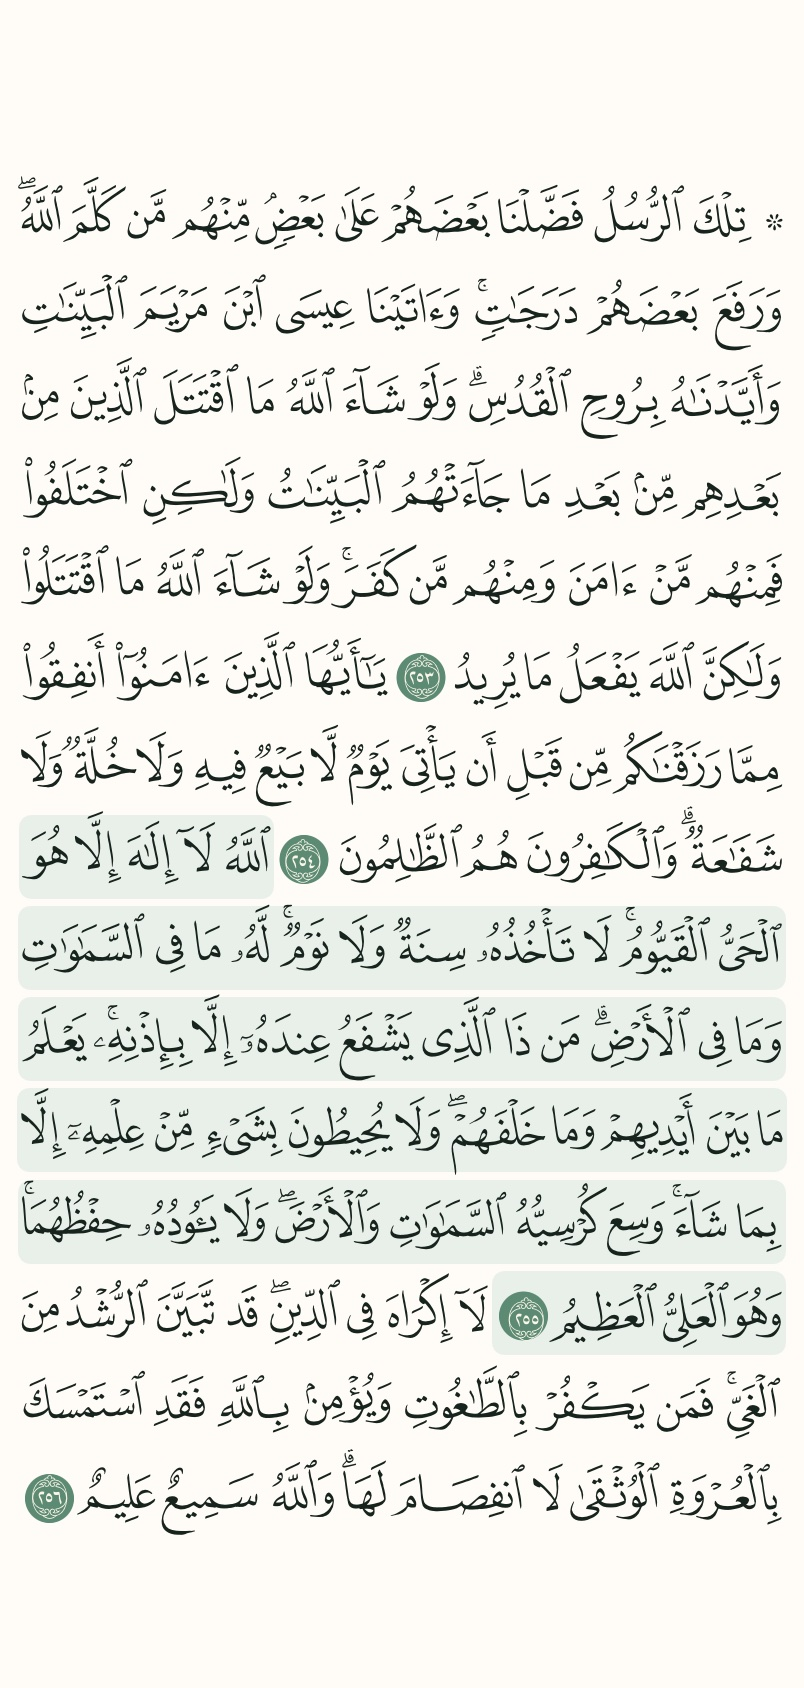
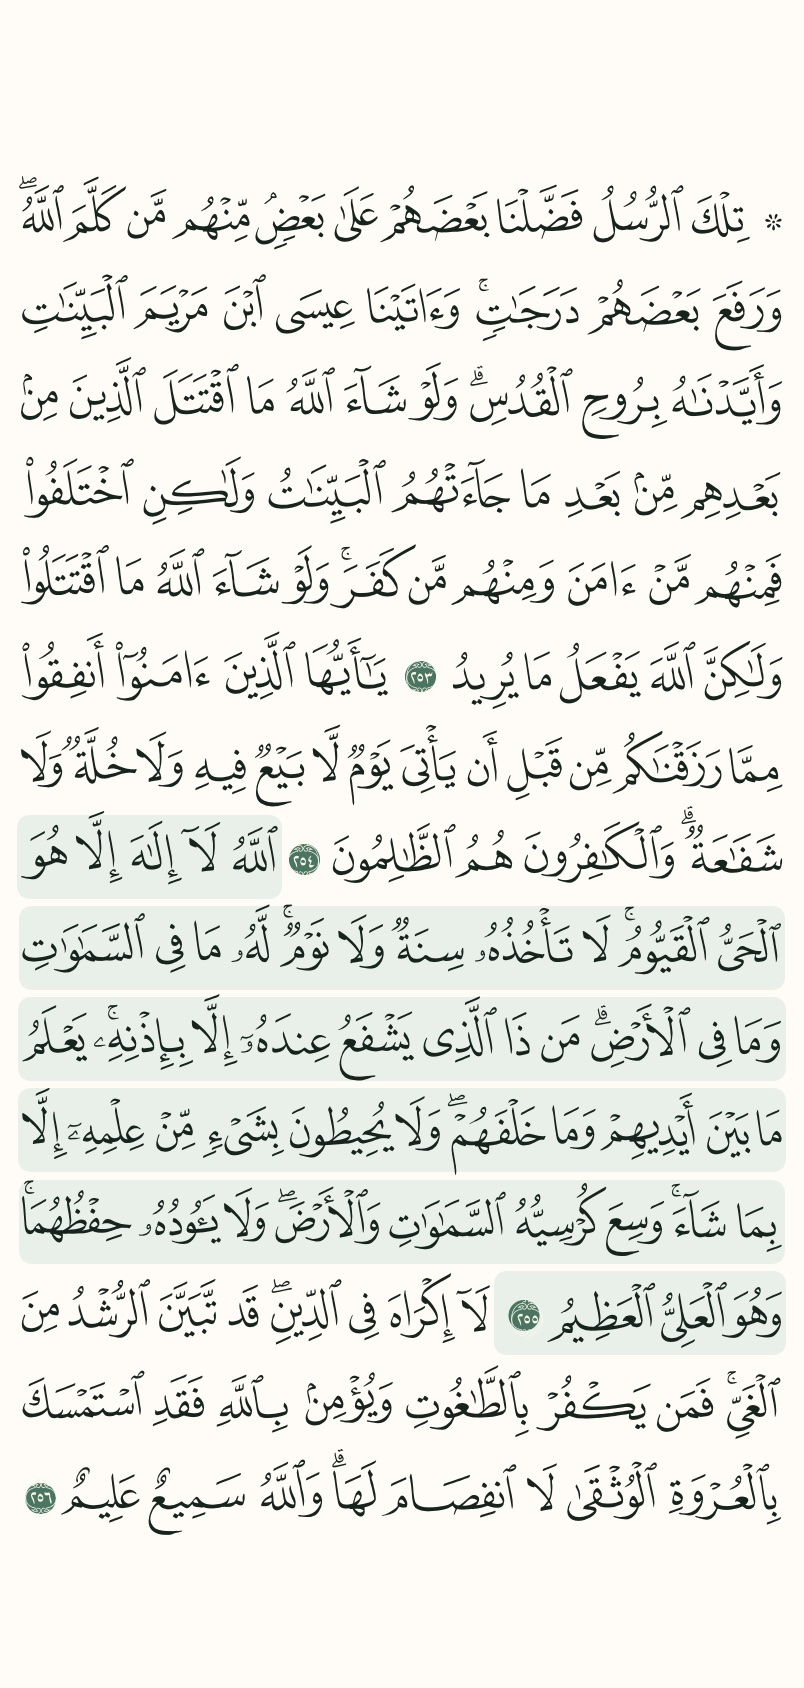
إعادة لقطات تحديد الآيات (#3408) من بناء HEAD مع PROVENANCE + هاش مجلد في الحارس (#3420)

diff --git a/docs/native/qa/mushaf/selection/selection-table.md b/docs/native/qa/mushaf/selection/selection-table.md
@@ -1,26 +1,26 @@
 | الحالة | الصفحة | الآية | الوضع | العرض | تظليل px | فجوات | ورق% |
 |---|---|---|---|---|---|---|---|
-| short | 1 | 1:2 | فاتح | 402 | 50340 | 0 | 86 |
-| short | 1 | 1:2 | داكن | 402 | 52139 | 0 | 86 |
-| short | 1 | 1:2 | فاتح | 834 | 212605 | 3 | 87 |
-| short | 1 | 1:2 | داكن | 834 | 216883 | 0 | 87 |
-| multi | 42 | 2:255 | فاتح | 402 | 260983 | 0 | 70 |
-| multi | 42 | 2:255 | داكن | 402 | 261073 | 2 | 70 |
-| multi | 42 | 2:255 | فاتح | 834 | 1107668 | 8 | 72 |
-| multi | 42 | 2:255 | داكن | 834 | 1108064 | 10 | 72 |
-| first | 150 | 6:158 | فاتح | 402 | 181187 | 0 | 76 |
-| first | 150 | 6:158 | داكن | 402 | 181250 | 0 | 76 |
-| first | 150 | 6:158 | فاتح | 834 | 772911 | 0 | 78 |
-| first | 150 | 6:158 | داكن | 834 | 773689 | 0 | 78 |
-| last | 150 | 6:165 | فاتح | 402 | 126568 | 0 | 80 |
-| last | 150 | 6:165 | داكن | 402 | 126631 | 0 | 80 |
-| last | 150 | 6:165 | فاتح | 834 | 541861 | 0 | 82 |
-| last | 150 | 6:165 | داكن | 834 | 542639 | 0 | 82 |
-| longest | 48 | 2:282 | فاتح | 402 | 844469 | 0 | 28 |
-| longest | 48 | 2:282 | داكن | 402 | 844483 | 0 | 28 |
-| longest | 48 | 2:282 | فاتح | 834 | 3610588 | 0 | 30 |
-| longest | 48 | 2:282 | داكن | 834 | 3610810 | 0 | 30 |
-| sajda | 416 | 32:15 | فاتح | 402 | 104272 | 4 | 82 |
-| sajda | 416 | 32:15 | داكن | 402 | 104300 | 0 | 82 |
-| sajda | 416 | 32:15 | فاتح | 834 | 441530 | 0 | 83 |
-| sajda | 416 | 32:15 | داكن | 834 | 442429 | 0 | 83 |
+| short | 1 | 1:2 | فاتح | 402 | 53592 | 0 | 87 |
+| short | 1 | 1:2 | داكن | 402 | 55467 | 0 | 87 |
+| short | 1 | 1:2 | فاتح | 834 | 226875 | 0 | 87 |
+| short | 1 | 1:2 | داكن | 834 | 231081 | 2 | 87 |
+| multi | 42 | 2:255 | فاتح | 402 | 261929 | 0 | 70 |
+| multi | 42 | 2:255 | داكن | 402 | 262078 | 0 | 70 |
+| multi | 42 | 2:255 | فاتح | 834 | 1121587 | 0 | 72 |
+| multi | 42 | 2:255 | داكن | 834 | 1122061 | 0 | 72 |
+| first | 150 | 6:158 | فاتح | 402 | 184846 | 0 | 76 |
+| first | 150 | 6:158 | داكن | 402 | 185032 | 0 | 76 |
+| first | 150 | 6:158 | فاتح | 834 | 784469 | 0 | 78 |
+| first | 150 | 6:158 | داكن | 834 | 785094 | 0 | 78 |
+| last | 150 | 6:165 | فاتح | 402 | 130707 | 0 | 80 |
+| last | 150 | 6:165 | داكن | 402 | 130882 | 0 | 80 |
+| last | 150 | 6:165 | فاتح | 834 | 555273 | 0 | 82 |
+| last | 150 | 6:165 | داكن | 834 | 555925 | 0 | 82 |
+| longest | 48 | 2:282 | فاتح | 402 | 845748 | 0 | 28 |
+| longest | 48 | 2:282 | داكن | 402 | 845861 | 0 | 28 |
+| longest | 48 | 2:282 | فاتح | 834 | 3615691 | 0 | 30 |
+| longest | 48 | 2:282 | داكن | 834 | 3616090 | 0 | 30 |
+| sajda | 416 | 32:15 | فاتح | 402 | 105746 | 0 | 82 |
+| sajda | 416 | 32:15 | داكن | 402 | 105932 | 0 | 82 |
+| sajda | 416 | 32:15 | فاتح | 834 | 449234 | 0 | 84 |
+| sajda | 416 | 32:15 | داكن | 834 | 449949 | 0 | 84 |
